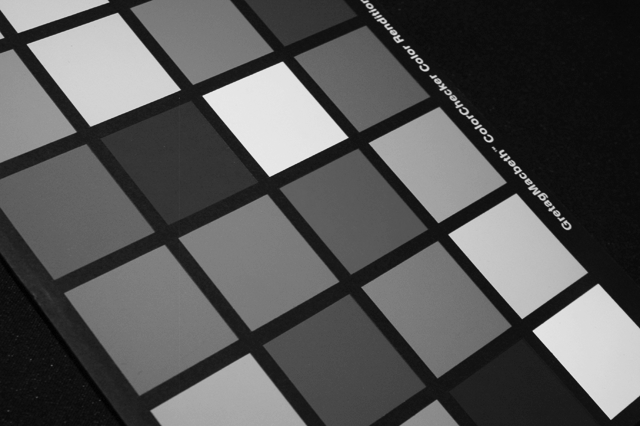
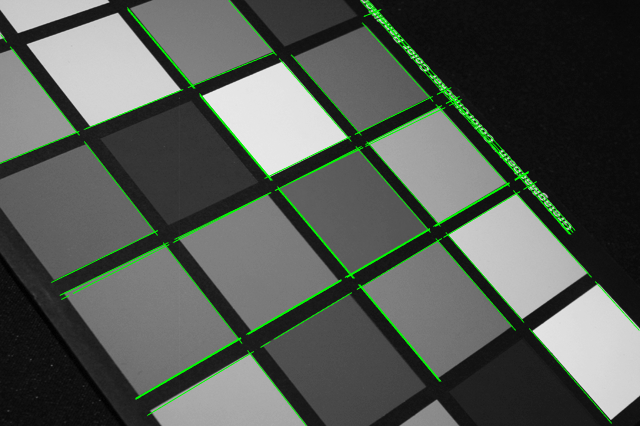
Fixed some bugs in line segment finding

diff --git a/Assignments/HW3/src/lineSegmentFinder.m b/Assignments/HW3/src/lineSegmentFinder.m
@@ -1,18 +1,20 @@
 function cropped_line_img = lineSegmentFinder(orig_img, hough_img, hough_threshold)
-    edge_img = imread('edge_hough_1.png');
+    edge_img = im2double(edge(orig_img, 'sobel', .1055));
+    % imshow(edge_img);
     [theta_max, rho_max] = size(hough_img);
+                    
+    % Convolve with a circular filter of radius 3 to find
+    % if any pixels exist in the edges image
+    filter = ones(7, 7);  % fspecial('disk', 10);
+    % Perform convolution 
+    convolved_img = imfilter(edge_img, filter, 'conv', 'replicate');
+    imshow(convolved_img);
+    
     [ht, wid] = size(orig_img);
     max_rho = sqrt(ht^2 + wid^2);
     fh = figure; imshow(orig_img);
     hold on;
     
-                    
-    % Convolve with a circular filter of radius 3 to find
-    % if any pixels exist in the edges image
-    filter = fspecial('disk', 6);
-    % Perform convolution 
-    convolved_img = imfilter(edge_img, filter, 'conv', 'replicate');
-    % imshow(convolved_img);
     for theta = 1 : theta_max
         for rho = 1 : rho_max
             % fprintf("%d %d\n", theta, rho);
@@ -20,13 +22,30 @@ function cropped_line_img = lineSegmentFinder(orig_img, hough_img, hough_thresho
                 theta_val = theta * 180 / theta_max;
                 rho_val = max_rho * (rho / (rho_max / 2) - 1);
                 
-                for x = 1 : ht
+                x = 1;
+                while x <= ht
                     y = (x * tand(theta_val) + rho_val * secd(theta_val));
                     % fprintf("%d %f\n", x, y);
                     round_y = round(y);
+                    X = [0 0];
+                    Y = [0 0];
                     if round_y > 0 && round_y < wid && convolved_img(x, round_y) > 0
-                        plot(y, x, '.', 'Color', 'g');
+                        X(1) = x;
+                        Y(1) = y;
+                        x = x + 1;
+                        y = (x * tand(theta_val) + rho_val * secd(theta_val));
+                        round_y = round(y);
+                        while x <= ht && round_y > 0 && round_y < wid && convolved_img(x, round_y) > 0
+                            x = x + 1;
+                            y = (x * tand(theta_val) + rho_val * secd(theta_val));
+                            round_y = round(y);
+                        end
+                        X(2) = x;
+                        Y(2) = y;
+                        % fprintf("(%d, %d) (%d, %d)\n", X(1), Y(1), X(2), Y(2));
+                        plot(Y, X, 'Color', 'g');
                     end
+                    x = x + 1;
                 end
             end
         end

diff --git a/Assignments/HW3/src/runHw3.m b/Assignments/HW3/src/runHw3.m
@@ -47,7 +47,7 @@ hw3_walkthrough1;
 %%
 function challenge1a()
 img_list = {'hough_1', 'hough_2', 'hough_3'};
-edge_thresh = {0.1055, 0.1055, 0.1055};
+edge_thresh = {0.1055, 0.06, 0.07};
 for i = 1:length(img_list)
     img = imread([img_list{i} '.png']);
     edge_img = edge(img, 'sobel', edge_thresh{i});
@@ -78,7 +78,7 @@ end
 function challenge1c()
 
 img_list = {'hough_1', 'hough_2', 'hough_3'};
-hough_threshold = [120, 70, 100];
+hough_threshold = [110, 50, 150];
 
 for i = 1:length(img_list)
     orig_img = imread([img_list{i} '.png']);
@@ -98,7 +98,7 @@ end
 function challenge1d()
 
 img_list = {'hough_1', 'hough_2', 'hough_3'};
-hough_threshold = [120, 70, 100];
+hough_threshold = [110, 50, 150];
 
 for i = 1:length(img_list)
     orig_img = imread([img_list{i} '.png']);
